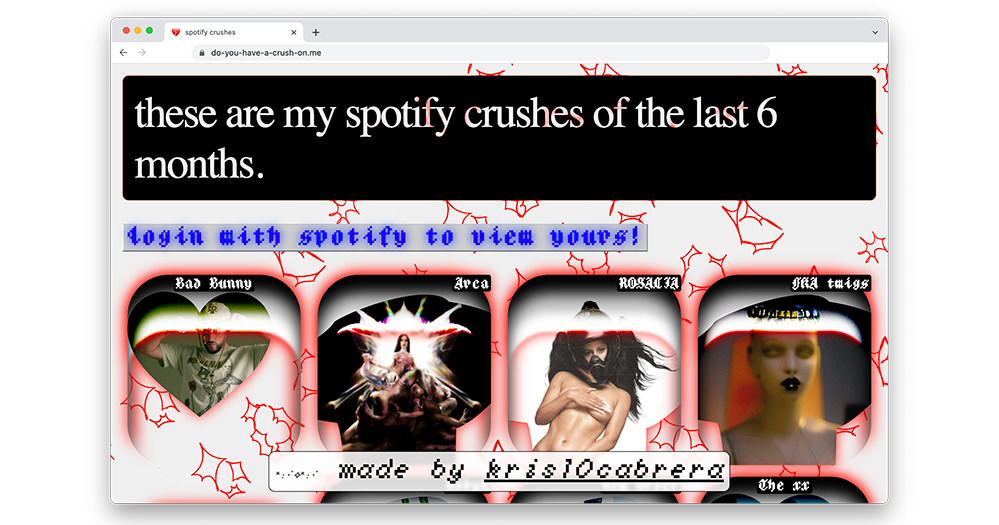
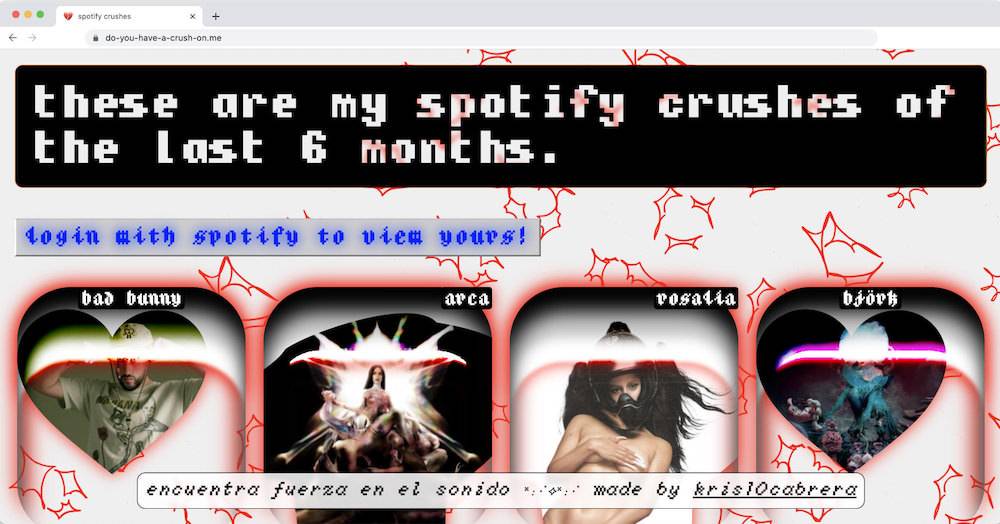
footer, open graph updates, link updates

diff --git a/pages/index.js b/pages/index.js
@@ -63,6 +63,7 @@ export default function Home() {
             style={{
               background: "rgb(205, 205, 205)",
               border: "1px outset #ccc",
+              padding: 7,
             }}
             speed={30}
             gradient={false}
@@ -75,6 +76,7 @@ export default function Home() {
                   fontFamily: "FT88",
                   fontStyle: "italic",
                   marginRight: 3,
+                  fontSize: 20,
                 }}
               >
                 {genre}
@@ -82,6 +84,18 @@ export default function Home() {
               </Box>
             ))}
           </Marquee>
+          <Box
+            css={{
+              fontFamily: "FT88",
+              marginTop: 40,
+              textAlign: "right",
+              zIndex: 4,
+              position: "relative",
+              fontSize: 14,
+            }}
+          >
+            Fonts courtesy of Velvetyne Type Foundry & Full Auto Foundry
+          </Box>
         </Box>
         <Footer />
       </Box>

diff --git a/components/Footer.js b/components/Footer.js
@@ -39,6 +39,7 @@ export default function Footer() {
         as="a"
         href="https://www.kristencabrera.com/"
         target="_blank"
+        rel="noreferrer"
         css={{ textDecoration: "underline" }}
       >
         kris10cabrera

diff --git a/components/Heart.js b/components/Heart.js
@@ -9,6 +9,8 @@ export default function Heart(props) {
   return (
     <Box
       as="a"
+      target="_blank"
+      rel="noreferrer"
       href={artist.url}
       key={artist.artist}
       css={{
